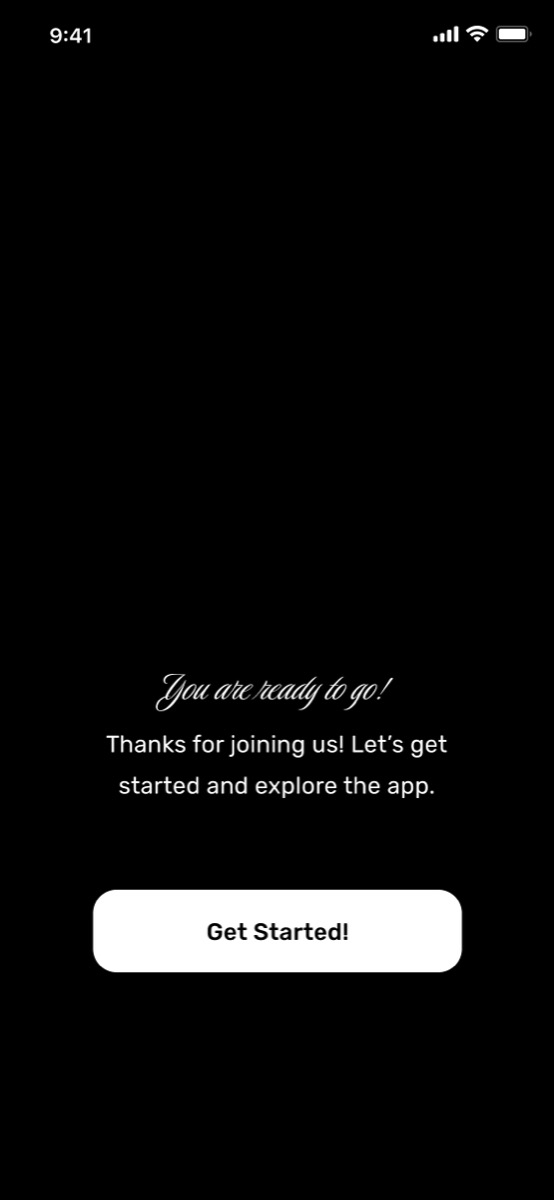
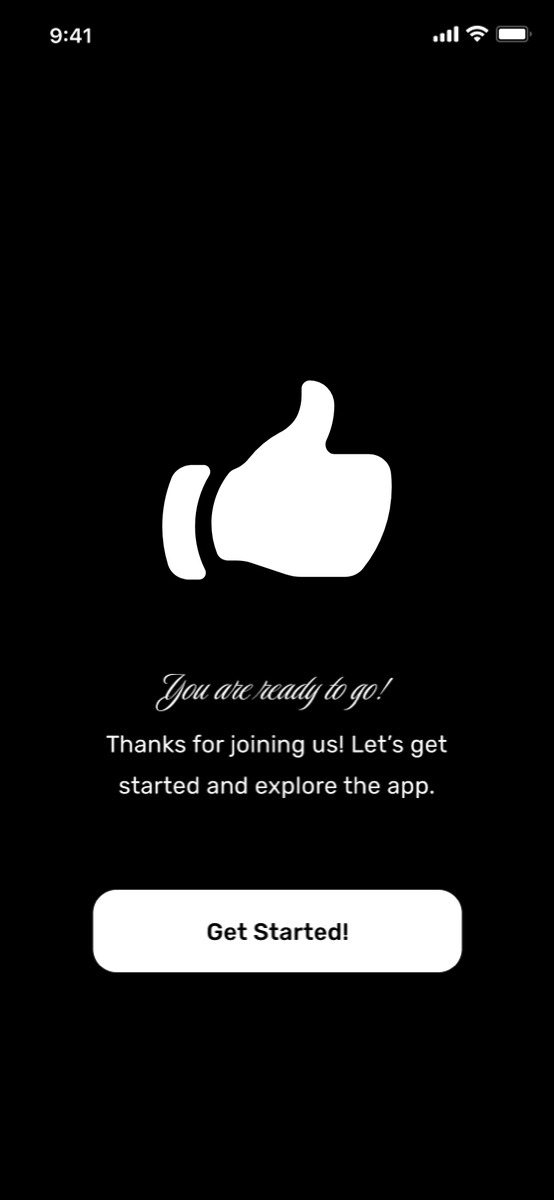
ch(App): Website updates UI fixtures

Changed region(s): [[0.2762, 0.3083, 0.7058, 0.4933]]

diff --git a/src/components/home/clients.tsx b/src/components/home/clients.tsx
@@ -1,18 +1,11 @@
 import Marquee from "@/components/marquee";
 
 const inspirations = [
-  "Pentagram",
-  "Studio Dumbar",
-  "Wolff Olins",
-  "Klim Type Foundry",
-  "Commercial Type",
-  "Grilli Type",
-  "Massimo Vignelli",
-  "Paula Scher",
-  "Jonathan Hoefler",
-  "Erik Spiekermann",
-  "It's Nice That",
-  "Are.na",
+  "Robert Wilson",
+  "Michael Lantz",
+  "Christelle Schraff",
+  "Nicole Cohen",
+  "Haik Sahakian",
 ];
 
 export default function Clients() {
@@ -23,7 +16,7 @@ export default function Clients() {
           <span className="size-1 rounded-full bg-foreground/60" />
           Currently inspired by
         </span>
-        <span>(Studios · Foundries · Designers)</span>
+        <span>(Professors)</span>
       </div>
       <Marquee>
         {inspirations.map((c) => (

diff --git a/src/app/about/page.tsx b/src/app/about/page.tsx
@@ -29,18 +29,19 @@ const principles = [
 
 const timeline = [
   {
-    year: "2024 — Now",
+    year: "2022 — Now",
     title: "Pace University · New York",
-    detail: "B.A. Computer Science, minor in Graphic Design.",
+    detail:
+      "Switched from B.S. Computer Science to B.A. Computer Science with a minor in Graphic Design.",
   },
   {
-    year: "2023",
+    year: "2022",
     title: "Moved to New York",
     detail:
       "Relocated from India to study, surrounded by typography, museums, and the city's pace.",
   },
   {
-    year: "2022",
+    year: "2021",
     title: "Found design through code",
     detail:
       "Started exploring the visual side of technology — interfaces, posters, layouts — and never looked back.",
@@ -56,7 +57,7 @@ const timeline = [
 const stack = [
   { group: "Design", items: ["Figma", "InDesign", "Illustrator", "Photoshop"] },
   { group: "Code", items: ["HTML / CSS", "JavaScript", "React", "Python"] },
-  { group: "Interests", items: ["Typography", "Editorial layout", "Brand systems", "Motion"] },
+  { group: "Interests", items: ["Typography", "Brand systems", "Motion"] },
 ];
 
 const learning = [

diff --git a/src/components/footer.tsx b/src/components/footer.tsx
@@ -8,16 +8,6 @@ const columns = [
       { label: "Studio", href: "/about" },
       { label: "Work", href: "/work" },
       { label: "Contact", href: "/contact" },
-      { label: "Licensing", href: "#" },
-    ],
-  },
-  {
-    title: "Work",
-    links: [
-      { label: "Work I", href: "/work#one" },
-      { label: "Work II", href: "/work#two" },
-      { label: "Work III", href: "/work#three" },
-      { label: "All projects", href: "/work" },
     ],
   },
   {

diff --git a/src/app/page.tsx b/src/app/page.tsx
@@ -7,8 +7,6 @@ import Lens from "@/components/home/lens";
 import BuiltDifferent from "@/components/home/built-different";
 import Services from "@/components/home/services";
 import Process from "@/components/home/pricing";
-import Stats from "@/components/home/stats";
-import Testimonials from "@/components/home/testimonials";
 import CTA from "@/components/home/cta";
 
 export default function HomePage() {
@@ -22,9 +20,7 @@ export default function HomePage() {
       <Lens />
       <BuiltDifferent />
       <Services />
-      <Stats />
       <Process />
-      <Testimonials />
       <CTA />
     </>
   );

diff --git a/src/components/home/lens.tsx b/src/components/home/lens.tsx
@@ -122,7 +122,7 @@ export default function Lens() {
 
         <div className="mt-14 flex items-center justify-between border-t border-border pt-6 text-[11px] uppercase tracking-[0.22em] text-muted md:mt-20">
           <span>(Field notes · 2024 — 2026)</span>
-          <span>Shot on iPhone &amp; X100V</span>
+          <span>Shot on iPhone</span>
         </div>
       </div>
     </section>

diff --git a/src/components/nav.tsx b/src/components/nav.tsx
@@ -8,7 +8,7 @@ import { cn } from "@/lib/cn";
 
 const links = [
   { label: "Home", href: "/" },
-  { label: "Studio", href: "/about" },
+  { label: "About", href: "/about" },
   { label: "Work", href: "/work", badge: "(4)" },
   { label: "Photography", href: "/photography" },
   { label: "Contact", href: "/contact" },

diff --git a/src/components/home/discipline-ticker.tsx b/src/components/home/discipline-ticker.tsx
@@ -5,7 +5,6 @@ const disciplines = [
   "Layout",
   "Code",
   "Photography",
-  "Editorial",
   "Brand",
   "Print",
   "Web",

diff --git a/src/components/home/intro.tsx b/src/components/home/intro.tsx
@@ -25,7 +25,6 @@ const tools = [
   "React",
   "HTML / CSS",
   "Type design",
-  "Editorial layout",
 ];
 
 const exploring = [